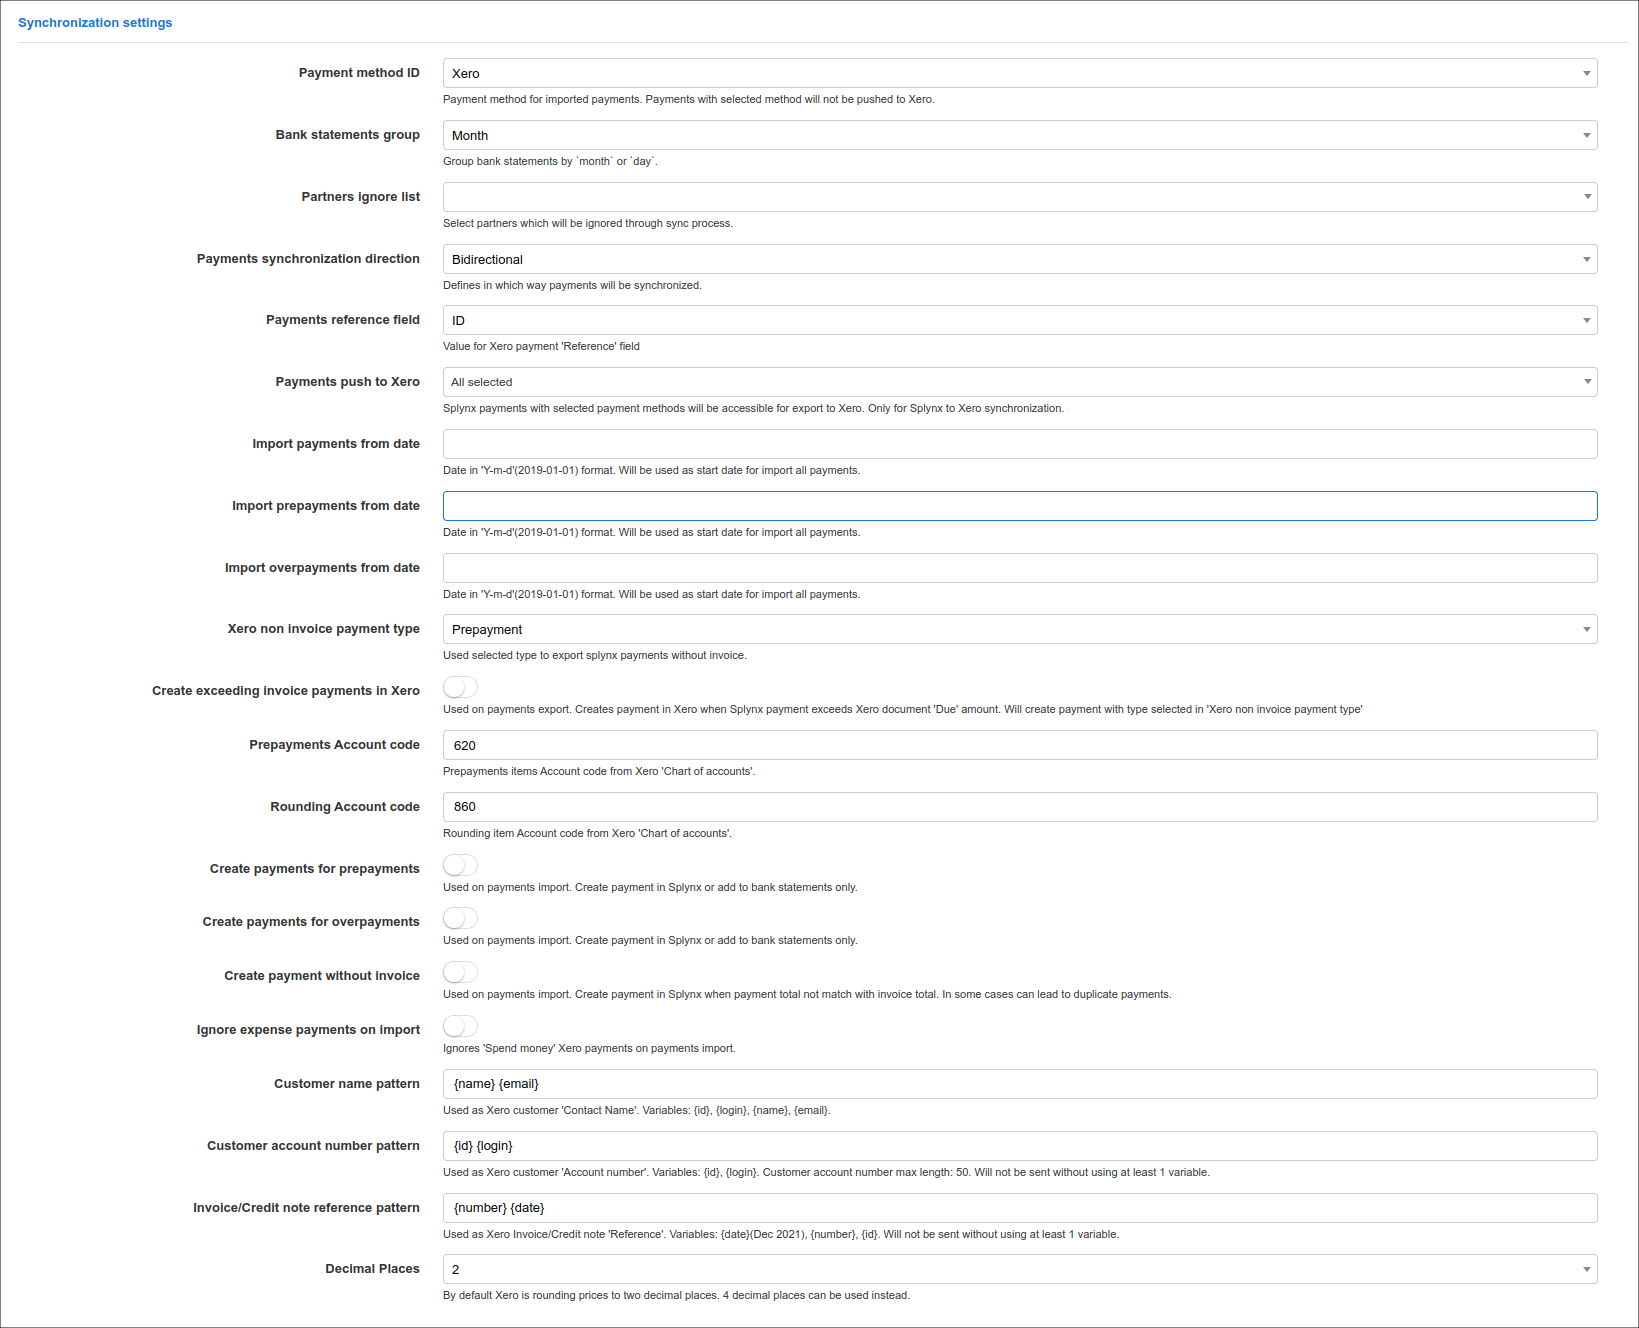
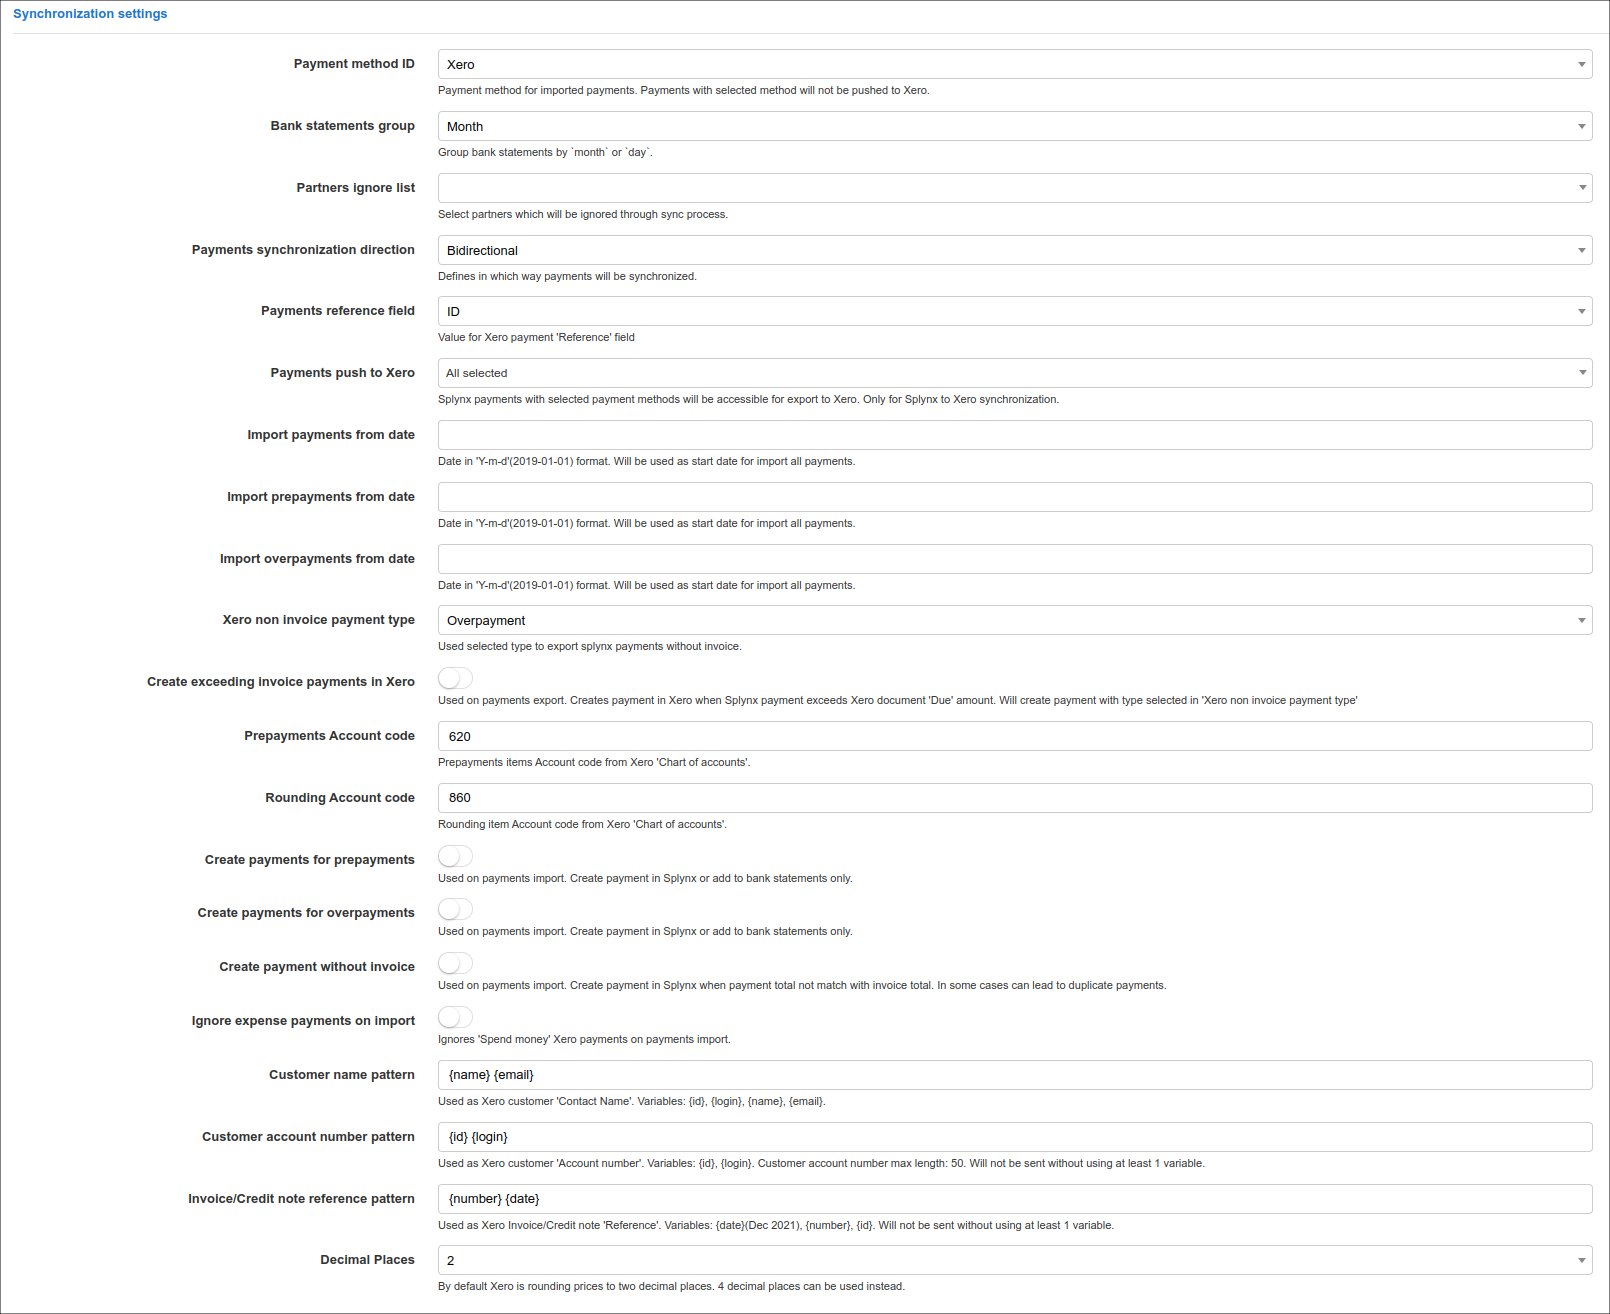
added clarifications from SAXERO-139, SAXERO-124

diff --git a/files/en/addons_modules/xero/xero.md b/files/en/addons_modules/xero/xero.md
@@ -4,7 +4,7 @@ Xero accounting
 Splynx is able to sync customers, invoices and payments with Xero accounting software - https://www.xero.com
 
 
-### Important:
+<icon class="image-icon">![Important](warning.png)</icon> **IMPORTANT:**
 
 **It's recommended do not configure the add-on on your own.**
 **Please, contact our support team before starting the accounting integration.**
@@ -47,9 +47,23 @@ The **Splynx domain** must be the same as the **API domain URL** but without las
 
 - **Partners ignore list** - select the [partners](administration/main/partners/partners.md) of which will be ignored in sync process. Customers, invoices and payments of the partners selected here, **WILL NOT** be synced with Xero;
 
-  **Note:** Only one partner should be synced - multiple partner sync is not supported in accounting integrations.
+<icon class="image-icon">![Note](note.png)</icon>  **NOTE:** Only one partner should be synced - multiple partner sync is not supported in accounting integrations.
 
 - **Payments synchronization direction** - define the direction of syncing payments: `Xero → Splynx`, `Splynx → Xero` or `Bidirectional`. If **Xero to Splynx** direction is selected - all payments which were created in Splynx will not be synced to Xero;
+
+- **Payments reference field** - select the payment field whose value will be sent as a payment reference when synchronizing payments to Xero;
+
+<details style="font-size: 15px; margin-bottom: 5px;">
+<summary><b>by invoice ID</b></summary>
+<div markdown="1">
+
+![payments_reference_field](prf1.png)
+
+![payments_reference_field](prf2.png)
+
+</div>
+</details>
+<br>
 
 - **Payments push to Xero** - select the [payment methods](configuration/finance/payment_methods/payment_methods.md) to sync to Xero, this selection only applies if the selected method to sync payments is set to `Splynx → Xero`;
 
@@ -75,10 +89,9 @@ It would be much easier if all R500 could simply be allocated to the client's ac
 
 </div>
 </details>
-
 <br>
 
-- **Create exceeding invoice payments in Xero** - a toggle allows to create a payment in Xero when the Splynx payment amount exceeds the Xero `Due` invoice amount. On Xero side will be created a payment with the type chosen in the **Xero non invoice payment type** select menu (`Prepayment` or `Overpayment`), such payment won't be link to the invoice.
+- **Create exceeding invoice payments in Xero** - toggle in the enabled state allows to create a payment in Xero when the Splynx payment amount exceeds the Xero `Due` invoice amount. On Xero side will be created a payment with the type chosen in the **Xero non invoice payment type** select menu (`Prepayment` or `Overpayment`), such payment won't be link to the invoice.
 In disabled status, when there is a partially paid invoice on Xero side, a Splynx payment won't be exported to Xero and you will see the error message - `A validation exception occurred - Payment amount exceeds the amount outstanding on this document` in `Administration → Logs → Accounting integrations`.
 
 
@@ -86,9 +99,11 @@ In disabled status, when there is a partially paid invoice on Xero side, a Splyn
 <summary><b>Example</b></summary>
 <div markdown="1">
 
-Let's say in Xero add-on config, we use the `Overpayment` value in the **Xero non invoice payment type** select menu. The **Create exceeding invoice payments in Xero** toggle is **disabled**.
+Let's say in Xero add-on config, we use the `Overpayment` value in the **Xero non invoice payment type** select menu. The **Create exceeding invoice payments in Xero** toggle is **disabled**. The option **Create payments for prepayments** is **disabled**.
 
 ![image](exc_addon_config.png)
+
+![image](paym_for_overpaymets.png)
 
 The unpaid invoice of customer was exported to Xero.
 
@@ -162,7 +177,7 @@ Export payment: 2022-01-00051 Exceeds amount of document. Export as Overpayment
 ```
 ![image](exc7.png)
 
-**IMPORTANT:** This exported payment will not be linked to the customer's invoice, but it will be added as `overpayment` (or `prepayment`, it depends on the selected option) to the bank account balance on Xero side:
+<icon class="image-icon">![Important](warning.png)</icon> **IMPORTANT:** This exported payment will not be linked to the customer's invoice, but it will be added as `overpayment` (or `prepayment`, it depends on the selected option) to the bank account balance on Xero side:
 
 ![image](exc8.png)
 
@@ -177,11 +192,21 @@ Finally, you can make payments correction and if it's necessary, remove overpaym
 Related Read:
 
 - [Remove an overpayment](https://central.xero.com/s/article/Remove-payment-from-an-invoice-or-bill);
+
 - [Delete an account transaction](https://central.xero.com/s/article/Delete-an-account-transaction?userregion=true).
+
+<icon class="image-icon">![Note](note.png)</icon> **NOTE:**
+
+If the option **Create payments for prepayments** is not used (a toggle is **disabled**) and you decide to import the (overpayments) payments from Xero to Splynx, such payments will be imported to Splynx as bank statements and should be paired with the necessary customer (-s) manually.
+
+![image](bnk1.png)
+
+Suggested read:
+
+- [Bank statement processing](finance/bank_statement_processing/bank_statement_processing.md).
 
 </div>
 </details>
-
 <br>
 
 - **Prepayments Account code** - a unique code (limited to 10 characters) of prepayments items (the expenditures that have been paid for in advance) in Xero account (`Accounting menu → Advanced → Chart of Accounts`);
@@ -193,6 +218,30 @@ Related Read:
 - **Create payments for overpayments** - a toggle allows to enable creating payment for overpayment in Splynx or, in disabled status - add such payment to the bank statements only. Used on payments import;
 
 - **Create payment without invoice** - a toggle allows to enable/disable creating payment in Splynx when customer doesn't have invoice. Used on payments import. **Attention:** in some cases can lead to duplicate payments;
+
+<details style="font-size: 15px; margin-bottom: 5px;">
+<summary><b>Example</b></summary>
+<div markdown="1">
+
+<!-- Check the task SAXERO-139 -->
+
+Let say, we have the following case: Customer has an unpaid invoice for R100. This invoice was exported to Xero and partially paid there in the amount of R20. At the same time, the unpaid invoice in Splynx was paid for the full amount and the payments were exported to Xero. Finally, all payments were imported from Xero to Splynx.
+
+The next settings are used:
+
+![image](cpwi.png)
+
+<icon class="image-icon">![Note](note.png)</icon> **NOTE:** Splynx v3.1 doesn't support functionality with auto payment, or rather, payments do not pay invoices automatically.
+
+As a result,
+
+- in Splynx v3.1: the R100 payment that was made in Splynx will be exported to Xero as overpayment and the imported R20 payment will be shown in `Finance → History` as bank statement, such statement can be manually paired to the necessary customer.
+
+- in Splynx v4.1: the R100 payment that was made in Splynx will be exported to Xero as overpayment and the R20 payment will be imported to Splynx and linked to the necessary customer as a new payment.
+
+</div>
+</details>
+<br>
 
 - **Ignore expense payments on import** - a toggle allows to enable/disable ignoring 'Spend money' (a payment that doesn't relate to a bill, expense claim, or refund) in Xero payments during payments import. If option is enabled, 'Spend money' payments will not be added to bank statements;
 
@@ -233,7 +282,7 @@ Related Read:
 
 These are the global settings to automatically sync items between the two platforms, in any selected direction of syncing.
 
-**NOTE:** It is recommended that all settings in the **Cron settings** section should be disabled for the initial set up of the add-on to avoid syncing all these elements automatically via cron jobs, the first import and export should be done manually in `Finance → Xero Accounting`
+<icon class="image-icon">![Note](note.png)</icon> **NOTE:** It is recommended that all settings in the **Cron settings** section should be disabled for the initial set up of the add-on to avoid syncing all these elements automatically via cron jobs, the first import and export should be done manually in `Finance → Xero Accounting`
 
 - **Customers** - enables/disables automatic syncing of customers;
 - **Invoices** - enables/disables automatic syncing of invoices;
@@ -260,7 +309,7 @@ After linking your Xero account with Splynx you will see a list of Xero organiza
 
 ![organizations](select_organization.png)
 
-**NOTE:** **All customers, invoices and payments will only be synced with the selected organization. If the organization must be changed in the Splynx Xero add-on, you will have to reset all synced invoices, customers, and payments, and start from scratch.**
+<icon class="image-icon">![Note](note.png)</icon> **NOTE:** **All customers, invoices and payments will only be synced with the selected organization. If the organization must be changed in the Splynx Xero add-on, you will have to reset all synced invoices, customers, and payments, and start from scratch.**
 **The information how to reset the accounting database you can find below of this tutorial.**
 
 When the Xero account linking process is completed, the next step is to import mapping settings (chart accounts, tax rates, and bank accounts from Xero) into Splynx. Click on the `Import mapping settings into Splynx` button to achieve this.
@@ -279,7 +328,7 @@ In `Categories map` section, ALL categories must be selected with the related it
 
 ![show fields](show_fields.png)
 
-**NOTE:** **If the synced category has no account code - Xero will not be able to sync invoices for this category.**
+<icon class="image-icon">![Note](note.png)</icon> **NOTE:** **If the synced category has no account code - Xero will not be able to sync invoices for this category.**
 
 As soon as the relevant categories are configured, we can proceed with **bank accounts**:
 
@@ -300,11 +349,11 @@ In our test environment, we have 2 customers and a few invoices for each custome
 
 Once the customer export has completed, we can start export their invoices to Xero:
 
-**NOTE:**
+<icon class="image-icon">![Note](note.png)</icon> **NOTE:**
 
-**The invoices without transactions or marked as Deleted in Splynx will not be synced to Xero;**
+- **The invoices without transactions or marked as Deleted in Splynx will not be synced to Xero;**
 
-**If the invoice includes item with a given period of time in Splynx, such period will be added to the related item description on Xero side after sync.**
+- **If the invoice includes item with a given period of time in Splynx, such period will be added to the related item description on Xero side after sync.**
 
 
 <details style="font-size: 15px; margin-bottom: 5px;">
@@ -381,7 +430,7 @@ and find the necessary customer, invoice or proforma invoice to pair with:
 
 We recommend to check bank statements on a regular basis.
 
-**NOTE:** If on Xero side was applied **Remove & Redo** action to delete an account transaction for the payment related to the invoice (the status will be *Deleted*) or for the prepayment / overpayment (the status will be *Voided*), such items won't be imported to Splynx:
+<icon class="image-icon">![Note](note.png)</icon> **NOTE:** If on Xero side was applied **Remove & Redo** action to delete an account transaction for the payment related to the invoice (the status will be *Deleted*) or for the prepayment / overpayment (the status will be *Voided*), such items won't be imported to Splynx:
 
 ![image](ignore_payments.png)
 
